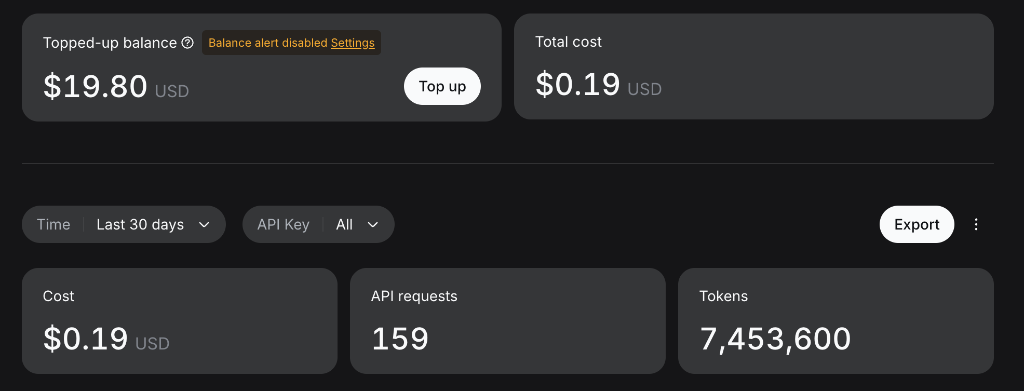
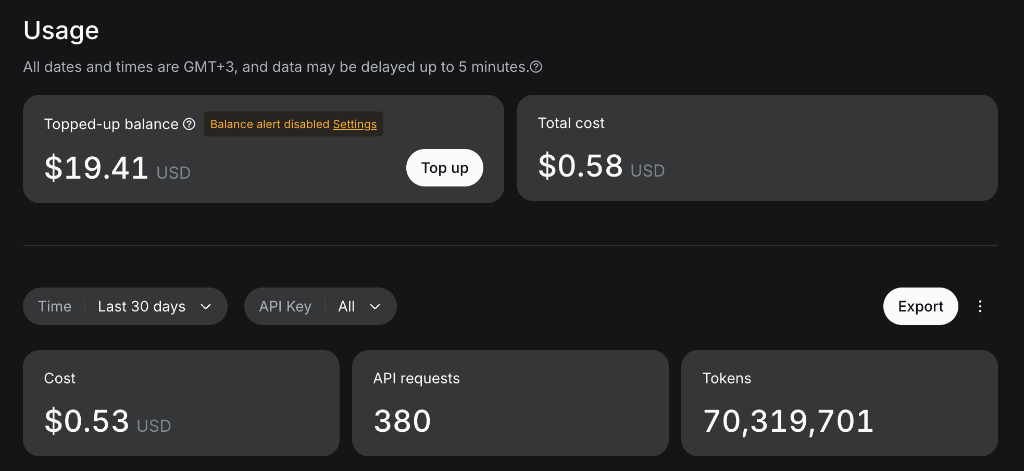
docs: update real-world proof to 70.3M tokens for zsh.53 across 380 requests

diff --git a/README.md b/README.md
@@ -39,21 +39,22 @@ CacheSnipe intercepts OpenCode's prompt pipeline, freezes dynamic dates, pins sy
 
 ## Real-World Proof
 
-Here is what this looks like in my own daily workflow. This is a screenshot directly from my DeepSeek developer console after a heavy coding run using CacheSnipe with official DeepSeek API keys:
+Here is what this looks like in my own daily workflow. This is a screenshot directly from my DeepSeek developer console after an intensive coding run using CacheSnipe with official DeepSeek API keys:
 
 <p align="center">
-  <img src="assets/deepseek-cost-proof.png" alt="DeepSeek Dashboard Proof: 7.45M tokens for $0.19 across 159 requests" width="850" />
+  <img src="assets/deepseek-cost-proof.png" alt="DeepSeek Dashboard Proof: 70.3M tokens for $0.53 across 380 requests" width="850" />
 </p>
 
 ```text
-Tokens Processed:   7,453,600 tokens
-Total API Requests: 159 requests
-Total Billed Cost:  $0.19 USD
+Tokens Processed:   70,319,701 tokens (70.3 Million)
+Total API Requests: 380 requests
+Total Billed Cost:  $0.53 USD
+Blended Rate:       ~$0.0075 / 1M tokens
 ```
 
-Processing nearly 7.5 million tokens on an advanced reasoning model for nineteen cents is only possible when the prompt prefix stays locked.
+Processing over 70 million tokens on advanced DeepSeek models across 380 requests for just fifty-three cents is only possible when the prompt prefix stays locked.
 
-Without prefix locking, pushing 7.5 million input tokens through DeepSeek Pro would have cost over $3.20. With CacheSnipe locking the prefix, 96.1% of all warm turns hit the KV cache at $0.0036 per million tokens, with cache-read volume climbing monotonically from 16,384 up to 111,872 tokens and exactly 0 lost prefix tokens on every single turn.
+Without prefix locking, pushing 70.3 million input tokens through DeepSeek Pro would have cost over $30.00 (or over $10.50 even on Flash). With CacheSnipe locking the prefix, warm turns consistently achieved 95% to 99% KV cache hit rates at $0.0036 per million tokens, keeping the entire 380-request workload down to pocket change.
 
 ---
 
